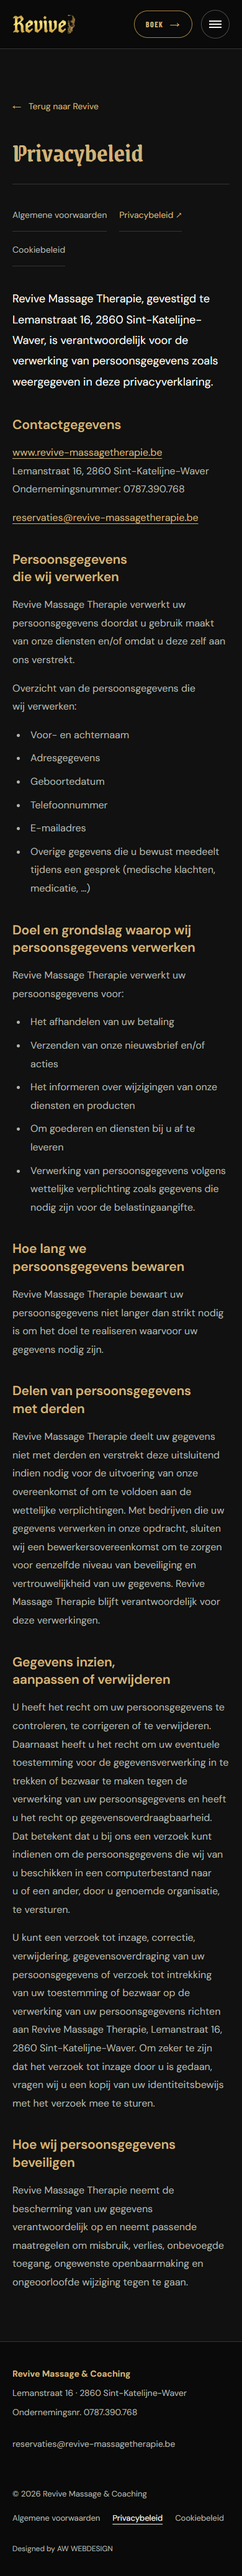
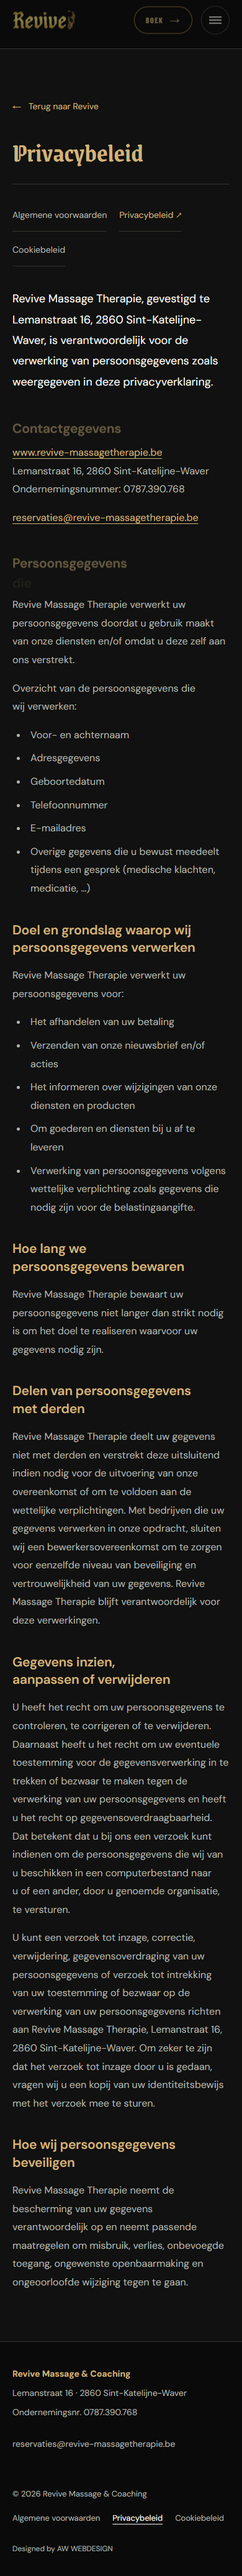
git commit -m "fix: update privacy policy and terms of service"

diff --git a/dist/style.js b/dist/style.js
@@ -85,20 +85,81 @@ document.querySelectorAll('a[href^="#"]').forEach(link => {
   });
 });
 
-// Progressive enhancement: content is readable before observers or animations run.
+// Restore the original curtain, word and staggered scroll reveals. Content stays
+// readable until an animation starts; failed scripts never leave a hidden page.
+const revealAnimations = new Set();
+const syncMotion = () => {
+  document.documentElement.classList.toggle('restored-motion', !motionPreference.matches);
+  if (motionPreference.matches) {
+    revealAnimations.forEach(animation => animation.cancel());
+    revealAnimations.clear();
+  }
+};
+syncMotion();
+motionPreference.addEventListener('change', syncMotion);
+
+function playReveal(element, frames, duration = 700, delay = 0) {
+  if (motionPreference.matches || !element.animate) return;
+  const animation = element.animate(frames, { duration, delay, easing: easeOut, fill: 'backwards' });
+  revealAnimations.add(animation);
+  animation.finished.then(() => revealAnimations.delete(animation), () => revealAnimations.delete(animation));
+}
+
 if ('IntersectionObserver' in window) {
+  const headings = document.querySelectorAll('main section h2, .footer-invitation h2');
+  headings.forEach(heading => {
+    const walker = document.createTreeWalker(heading, NodeFilter.SHOW_TEXT);
+    const nodes = [];
+    while (walker.nextNode()) nodes.push(walker.currentNode);
+    nodes.forEach(node => {
+      const fragment = document.createDocumentFragment();
+      for (const part of node.textContent.match(/\S+|\s+/g) || []) {
+        if (/^\s+$/.test(part)) fragment.append(document.createTextNode(part));
+        else {
+          const word = document.createElement('i');
+          word.className = 'rw';
+          word.textContent = part;
+          fragment.append(word);
+        }
+      }
+      node.replaceWith(fragment);
+    });
+    heading.classList.add('heading-rw');
+  });
+
+  const targets = new Set(headings);
+  document.querySelectorAll('.section-heading > p, .practice-note > *, .about-copy > p, .about-signoff, .about-copy > .btn, .review-overview, .review-viewport, .footer-details > div, .footer-book, .first-visit, .t-card, .about-photo, .footer-wordmark').forEach(element => targets.add(element));
   const observer = new IntersectionObserver(entries => {
-    for (const entry of entries) {
-      if (!entry.isIntersecting) continue;
-      observer.unobserve(entry.target);
-      if (!motionPreference.matches) entry.target.animate(
-        [{ opacity: 0.35, transform: 'translateY(18px)' }, { opacity: 1, transform: 'none' }],
-        { duration: 650, easing: easeOut }
-      );
+    for (const { target, isIntersecting } of entries) {
+      if (!isIntersecting) continue;
+      observer.unobserve(target);
+      target.dataset.revealed = 'true';
+      if (motionPreference.matches) continue;
+      if (target.classList.contains('heading-rw')) {
+        target.querySelectorAll('.rw').forEach((word, index) => playReveal(word,
+          [{ opacity: 0, transform: 'translateY(.5em)' }, { opacity: 1, transform: 'translateY(0)' }], 720, index * 70));
+      } else if (target.matches('.about-photo, .footer-wordmark')) {
+        playReveal(target, [{ clipPath: 'inset(0 0 100% 0)' }, { clipPath: 'inset(0)' }], 950);
+      } else if (target.matches('.t-card')) {
+        const delay = window.matchMedia('(min-width: 761px)').matches ? [...target.parentElement.children].indexOf(target) * 120 : 0;
+        playReveal(target, [{ opacity: 0, transform: 'translateY(28px)' }, { opacity: 1, transform: 'translateY(0)' }], 700, delay);
+        playReveal(target.querySelector('img'),
+          [{ clipPath: 'inset(0 0 100% 0)', transform: 'scale(1.14)' }, { clipPath: 'inset(0)', transform: 'scale(1)' }], 900, delay);
+      } else {
+        playReveal(target, [{ opacity: 0, transform: 'translateY(24px)' }, { opacity: 1, transform: 'translateY(0)' }]);
+      }
     }
   }, { threshold: 0.12 });
-  document.querySelectorAll('.reveal, .practice-note p, .about-copy > p').forEach(element => observer.observe(element));
+  targets.forEach(target => observer.observe(target));
 }
+
+// Reveal focused content immediately rather than animating keyboard navigation.
+document.addEventListener('focusin', event => {
+  revealAnimations.forEach(animation => {
+    const target = animation.effect?.target;
+    if (target && (target.contains(event.target) || event.target.contains(target))) animation.cancel();
+  });
+});
 
 // Reviews slide automatically and remain natively scrollable.
 const reviewViewport = document.querySelector('.review-viewport');

diff --git a/style.js b/style.js
@@ -85,20 +85,81 @@ document.querySelectorAll('a[href^="#"]').forEach(link => {
   });
 });
 
-// Progressive enhancement: content is readable before observers or animations run.
+// Restore the original curtain, word and staggered scroll reveals. Content stays
+// readable until an animation starts; failed scripts never leave a hidden page.
+const revealAnimations = new Set();
+const syncMotion = () => {
+  document.documentElement.classList.toggle('restored-motion', !motionPreference.matches);
+  if (motionPreference.matches) {
+    revealAnimations.forEach(animation => animation.cancel());
+    revealAnimations.clear();
+  }
+};
+syncMotion();
+motionPreference.addEventListener('change', syncMotion);
+
+function playReveal(element, frames, duration = 700, delay = 0) {
+  if (motionPreference.matches || !element.animate) return;
+  const animation = element.animate(frames, { duration, delay, easing: easeOut, fill: 'backwards' });
+  revealAnimations.add(animation);
+  animation.finished.then(() => revealAnimations.delete(animation), () => revealAnimations.delete(animation));
+}
+
 if ('IntersectionObserver' in window) {
+  const headings = document.querySelectorAll('main section h2, .footer-invitation h2');
+  headings.forEach(heading => {
+    const walker = document.createTreeWalker(heading, NodeFilter.SHOW_TEXT);
+    const nodes = [];
+    while (walker.nextNode()) nodes.push(walker.currentNode);
+    nodes.forEach(node => {
+      const fragment = document.createDocumentFragment();
+      for (const part of node.textContent.match(/\S+|\s+/g) || []) {
+        if (/^\s+$/.test(part)) fragment.append(document.createTextNode(part));
+        else {
+          const word = document.createElement('i');
+          word.className = 'rw';
+          word.textContent = part;
+          fragment.append(word);
+        }
+      }
+      node.replaceWith(fragment);
+    });
+    heading.classList.add('heading-rw');
+  });
+
+  const targets = new Set(headings);
+  document.querySelectorAll('.section-heading > p, .practice-note > *, .about-copy > p, .about-signoff, .about-copy > .btn, .review-overview, .review-viewport, .footer-details > div, .footer-book, .first-visit, .t-card, .about-photo, .footer-wordmark').forEach(element => targets.add(element));
   const observer = new IntersectionObserver(entries => {
-    for (const entry of entries) {
-      if (!entry.isIntersecting) continue;
-      observer.unobserve(entry.target);
-      if (!motionPreference.matches) entry.target.animate(
-        [{ opacity: 0.35, transform: 'translateY(18px)' }, { opacity: 1, transform: 'none' }],
-        { duration: 650, easing: easeOut }
-      );
+    for (const { target, isIntersecting } of entries) {
+      if (!isIntersecting) continue;
+      observer.unobserve(target);
+      target.dataset.revealed = 'true';
+      if (motionPreference.matches) continue;
+      if (target.classList.contains('heading-rw')) {
+        target.querySelectorAll('.rw').forEach((word, index) => playReveal(word,
+          [{ opacity: 0, transform: 'translateY(.5em)' }, { opacity: 1, transform: 'translateY(0)' }], 720, index * 70));
+      } else if (target.matches('.about-photo, .footer-wordmark')) {
+        playReveal(target, [{ clipPath: 'inset(0 0 100% 0)' }, { clipPath: 'inset(0)' }], 950);
+      } else if (target.matches('.t-card')) {
+        const delay = window.matchMedia('(min-width: 761px)').matches ? [...target.parentElement.children].indexOf(target) * 120 : 0;
+        playReveal(target, [{ opacity: 0, transform: 'translateY(28px)' }, { opacity: 1, transform: 'translateY(0)' }], 700, delay);
+        playReveal(target.querySelector('img'),
+          [{ clipPath: 'inset(0 0 100% 0)', transform: 'scale(1.14)' }, { clipPath: 'inset(0)', transform: 'scale(1)' }], 900, delay);
+      } else {
+        playReveal(target, [{ opacity: 0, transform: 'translateY(24px)' }, { opacity: 1, transform: 'translateY(0)' }]);
+      }
     }
   }, { threshold: 0.12 });
-  document.querySelectorAll('.reveal, .practice-note p, .about-copy > p').forEach(element => observer.observe(element));
+  targets.forEach(target => observer.observe(target));
 }
+
+// Reveal focused content immediately rather than animating keyboard navigation.
+document.addEventListener('focusin', event => {
+  revealAnimations.forEach(animation => {
+    const target = animation.effect?.target;
+    if (target && (target.contains(event.target) || event.target.contains(target))) animation.cancel();
+  });
+});
 
 // Reviews slide automatically and remain natively scrollable.
 const reviewViewport = document.querySelector('.review-viewport');

diff --git a/404.html b/404.html
@@ -9,7 +9,7 @@
 <meta property="og:title" content="Pagina niet gevonden · Revive"><meta property="og:description" content="Deze pagina bestaat niet. Ga terug naar Revive of boek je afspraak."><meta property="og:url" content="https://www.revive-massagetherapie.be/404.html">
 <meta property="og:image" content="https://www.revive-massagetherapie.be/assets/social-preview.jpg"><meta property="og:image:alt" content="Revive Massage &amp; Coaching"><meta name="twitter:card" content="summary_large_image">
 <link rel="icon" href="/REVIVE/assets/favicon.svg" type="image/svg+xml"><link rel="apple-touch-icon" href="/REVIVE/assets/apple-touch-icon.png">
-<link rel="stylesheet" href="/REVIVE/assets/fonts/fonts.css"><link rel="stylesheet" href="/REVIVE/style.css?v=14"><link rel="stylesheet" href="/REVIVE/launch.css?v=1">
+<link rel="stylesheet" href="/REVIVE/assets/fonts/fonts.css"><link rel="stylesheet" href="/REVIVE/style.css?v=15"><link rel="stylesheet" href="/REVIVE/launch.css?v=7">
 </head><body class="legal-page"><a class="skip" href="#main">Naar inhoud</a>
 <header class="rv-nav" id="rv-nav"><div class="rv-nav-inner shell">
   <a class="rv-brand" href="/REVIVE/" aria-label="Revive · naar de homepage"><img src="/REVIVE/assets/header-mark.webp" alt="Revive Massage & Coaching" width="903" height="269"></a>
@@ -31,4 +31,4 @@
 <main id="main" class="legal-main shell" tabindex="-1"><div class="legal-heading"><a class="legal-back" href="/REVIVE/">← Terug naar Revive</a><h1>Even de weg kwijt?</h1></div><div class="error-copy"><p>Deze pagina bestaat niet of is verplaatst. Via de homepage vind je onze behandelingen, contactgegevens en de link om een afspraak te boeken.</p><a class="btn" href="/REVIVE/">Naar de homepage <span aria-hidden="true">→</span></a></div></main><footer class="legal-footer">
 <div class="shell legal-contact"><div><p><strong>Revive Massage &amp; Coaching</strong></p><p>Lemanstraat 16 · 2860 Sint-Katelijne-Waver</p><p>Ondernemingsnr. 0787.390.768</p></div><p><a href="mailto:reservaties@revive-massagetherapie.be">reservaties@revive-massagetherapie.be</a></p></div>
 <div class="footer-legal"><div class="shell"><span>© <span data-year>2026</span> Revive Massage &amp; Coaching</span><nav class="legal-links" aria-label="Juridische informatie"><a href="/REVIVE/algemene-voorwaarden/">Algemene voorwaarden</a><a href="/REVIVE/privacybeleid/">Privacybeleid</a><a href="/REVIVE/cookiebeleid/">Cookiebeleid</a></nav><a class="design-credit" href="https://awwebdesign.be/" target="_blank" rel="noopener noreferrer">Designed by AW WEBDESIGN</a></div></div></footer>
-<script src="/REVIVE/assets/vendor/lenis.min.js" defer></script><script src="/REVIVE/style.js?v=13" defer></script></body></html>
+<script src="/REVIVE/assets/vendor/lenis.min.js" defer></script><script src="/REVIVE/style.js?v=14" defer></script></body></html>

diff --git a/dist/404.html b/dist/404.html
@@ -9,7 +9,7 @@
 <meta property="og:title" content="Pagina niet gevonden · Revive"><meta property="og:description" content="Deze pagina bestaat niet. Ga terug naar Revive of boek je afspraak."><meta property="og:url" content="https://www.revive-massagetherapie.be/404.html">
 <meta property="og:image" content="https://www.revive-massagetherapie.be/assets/social-preview.jpg"><meta property="og:image:alt" content="Revive Massage &amp; Coaching"><meta name="twitter:card" content="summary_large_image">
 <link rel="icon" href="/REVIVE/assets/favicon.svg" type="image/svg+xml"><link rel="apple-touch-icon" href="/REVIVE/assets/apple-touch-icon.png">
-<link rel="stylesheet" href="/REVIVE/assets/fonts/fonts.css"><link rel="stylesheet" href="/REVIVE/style.css?v=14"><link rel="stylesheet" href="/REVIVE/launch.css?v=1">
+<link rel="stylesheet" href="/REVIVE/assets/fonts/fonts.css"><link rel="stylesheet" href="/REVIVE/style.css?v=15"><link rel="stylesheet" href="/REVIVE/launch.css?v=7">
 </head><body class="legal-page"><a class="skip" href="#main">Naar inhoud</a>
 <header class="rv-nav" id="rv-nav"><div class="rv-nav-inner shell">
   <a class="rv-brand" href="/REVIVE/" aria-label="Revive · naar de homepage"><img src="/REVIVE/assets/header-mark.webp" alt="Revive Massage & Coaching" width="903" height="269"></a>
@@ -31,4 +31,4 @@
 <main id="main" class="legal-main shell" tabindex="-1"><div class="legal-heading"><a class="legal-back" href="/REVIVE/">← Terug naar Revive</a><h1>Even de weg kwijt?</h1></div><div class="error-copy"><p>Deze pagina bestaat niet of is verplaatst. Via de homepage vind je onze behandelingen, contactgegevens en de link om een afspraak te boeken.</p><a class="btn" href="/REVIVE/">Naar de homepage <span aria-hidden="true">→</span></a></div></main><footer class="legal-footer">
 <div class="shell legal-contact"><div><p><strong>Revive Massage &amp; Coaching</strong></p><p>Lemanstraat 16 · 2860 Sint-Katelijne-Waver</p><p>Ondernemingsnr. 0787.390.768</p></div><p><a href="mailto:reservaties@revive-massagetherapie.be">reservaties@revive-massagetherapie.be</a></p></div>
 <div class="footer-legal"><div class="shell"><span>© <span data-year>2026</span> Revive Massage &amp; Coaching</span><nav class="legal-links" aria-label="Juridische informatie"><a href="/REVIVE/algemene-voorwaarden/">Algemene voorwaarden</a><a href="/REVIVE/privacybeleid/">Privacybeleid</a><a href="/REVIVE/cookiebeleid/">Cookiebeleid</a></nav><a class="design-credit" href="https://awwebdesign.be/" target="_blank" rel="noopener noreferrer">Designed by AW WEBDESIGN</a></div></div></footer>
-<script src="/REVIVE/assets/vendor/lenis.min.js" defer></script><script src="/REVIVE/style.js?v=13" defer></script></body></html>
+<script src="/REVIVE/assets/vendor/lenis.min.js" defer></script><script src="/REVIVE/style.js?v=14" defer></script></body></html>

diff --git a/algemene-voorwaarden/index.html b/algemene-voorwaarden/index.html
@@ -9,7 +9,7 @@
 <meta property="og:title" content="Algemene voorwaarden · Revive"><meta property="og:description" content="De algemene voorwaarden voor afspraken, behandelingen en betalingen bij Revive Massage Therapie."><meta property="og:url" content="https://www.revive-massagetherapie.be/algemene-voorwaarden/">
 <meta property="og:image" content="https://www.revive-massagetherapie.be/assets/social-preview.jpg"><meta property="og:image:alt" content="Revive Massage &amp; Coaching"><meta name="twitter:card" content="summary_large_image">
 <link rel="icon" href="../assets/favicon.svg" type="image/svg+xml"><link rel="apple-touch-icon" href="../assets/apple-touch-icon.png">
-<link rel="stylesheet" href="../assets/fonts/fonts.css"><link rel="stylesheet" href="../style.css?v=14"><link rel="stylesheet" href="../launch.css?v=1">
+<link rel="stylesheet" href="../assets/fonts/fonts.css"><link rel="stylesheet" href="../style.css?v=15"><link rel="stylesheet" href="../launch.css?v=7">
 </head><body class="legal-page"><a class="skip" href="#main">Naar inhoud</a>
 <header class="rv-nav" id="rv-nav"><div class="rv-nav-inner shell">
   <a class="rv-brand" href="../" aria-label="Revive · naar de homepage"><img src="../assets/header-mark.webp" alt="Revive Massage & Coaching" width="903" height="269"></a>
@@ -51,4 +51,4 @@
 </article></div></main><footer class="legal-footer">
 <div class="shell legal-contact"><div><p><strong>Revive Massage &amp; Coaching</strong></p><p>Lemanstraat 16 · 2860 Sint-Katelijne-Waver</p><p>Ondernemingsnr. 0787.390.768</p></div><p><a href="mailto:reservaties@revive-massagetherapie.be">reservaties@revive-massagetherapie.be</a></p></div>
 <div class="footer-legal"><div class="shell"><span>© <span data-year>2026</span> Revive Massage &amp; Coaching</span><nav class="legal-links" aria-label="Juridische informatie"><a href="../algemene-voorwaarden/" aria-current="page">Algemene voorwaarden</a><a href="../privacybeleid/">Privacybeleid</a><a href="../cookiebeleid/">Cookiebeleid</a></nav><a class="design-credit" href="https://awwebdesign.be/" target="_blank" rel="noopener noreferrer">Designed by AW WEBDESIGN</a></div></div></footer>
-<script src="../assets/vendor/lenis.min.js" defer></script><script src="../style.js?v=13" defer></script></body></html>
+<script src="../assets/vendor/lenis.min.js" defer></script><script src="../style.js?v=14" defer></script></body></html>

diff --git a/dist/algemene-voorwaarden/index.html b/dist/algemene-voorwaarden/index.html
@@ -9,7 +9,7 @@
 <meta property="og:title" content="Algemene voorwaarden · Revive"><meta property="og:description" content="De algemene voorwaarden voor afspraken, behandelingen en betalingen bij Revive Massage Therapie."><meta property="og:url" content="https://www.revive-massagetherapie.be/algemene-voorwaarden/">
 <meta property="og:image" content="https://www.revive-massagetherapie.be/assets/social-preview.jpg"><meta property="og:image:alt" content="Revive Massage &amp; Coaching"><meta name="twitter:card" content="summary_large_image">
 <link rel="icon" href="../assets/favicon.svg" type="image/svg+xml"><link rel="apple-touch-icon" href="../assets/apple-touch-icon.png">
-<link rel="stylesheet" href="../assets/fonts/fonts.css"><link rel="stylesheet" href="../style.css?v=14"><link rel="stylesheet" href="../launch.css?v=1">
+<link rel="stylesheet" href="../assets/fonts/fonts.css"><link rel="stylesheet" href="../style.css?v=15"><link rel="stylesheet" href="../launch.css?v=7">
 </head><body class="legal-page"><a class="skip" href="#main">Naar inhoud</a>
 <header class="rv-nav" id="rv-nav"><div class="rv-nav-inner shell">
   <a class="rv-brand" href="../" aria-label="Revive · naar de homepage"><img src="../assets/header-mark.webp" alt="Revive Massage & Coaching" width="903" height="269"></a>
@@ -51,4 +51,4 @@
 </article></div></main><footer class="legal-footer">
 <div class="shell legal-contact"><div><p><strong>Revive Massage &amp; Coaching</strong></p><p>Lemanstraat 16 · 2860 Sint-Katelijne-Waver</p><p>Ondernemingsnr. 0787.390.768</p></div><p><a href="mailto:reservaties@revive-massagetherapie.be">reservaties@revive-massagetherapie.be</a></p></div>
 <div class="footer-legal"><div class="shell"><span>© <span data-year>2026</span> Revive Massage &amp; Coaching</span><nav class="legal-links" aria-label="Juridische informatie"><a href="../algemene-voorwaarden/" aria-current="page">Algemene voorwaarden</a><a href="../privacybeleid/">Privacybeleid</a><a href="../cookiebeleid/">Cookiebeleid</a></nav><a class="design-credit" href="https://awwebdesign.be/" target="_blank" rel="noopener noreferrer">Designed by AW WEBDESIGN</a></div></div></footer>
-<script src="../assets/vendor/lenis.min.js" defer></script><script src="../style.js?v=13" defer></script></body></html>
+<script src="../assets/vendor/lenis.min.js" defer></script><script src="../style.js?v=14" defer></script></body></html>

diff --git a/dist/privacybeleid/index.html b/dist/privacybeleid/index.html
@@ -9,7 +9,7 @@
 <meta property="og:title" content="Privacybeleid · Revive"><meta property="og:description" content="Lees hoe Revive Massage Therapie omgaat met je persoonsgegevens en hoe je je privacyrechten kan uitoefenen."><meta property="og:url" content="https://www.revive-massagetherapie.be/privacybeleid/">
 <meta property="og:image" content="https://www.revive-massagetherapie.be/assets/social-preview.jpg"><meta property="og:image:alt" content="Revive Massage &amp; Coaching"><meta name="twitter:card" content="summary_large_image">
 <link rel="icon" href="../assets/favicon.svg" type="image/svg+xml"><link rel="apple-touch-icon" href="../assets/apple-touch-icon.png">
-<link rel="stylesheet" href="../assets/fonts/fonts.css"><link rel="stylesheet" href="../style.css?v=14"><link rel="stylesheet" href="../launch.css?v=1">
+<link rel="stylesheet" href="../assets/fonts/fonts.css"><link rel="stylesheet" href="../style.css?v=15"><link rel="stylesheet" href="../launch.css?v=7">
 </head><body class="legal-page"><a class="skip" href="#main">Naar inhoud</a>
 <header class="rv-nav" id="rv-nav"><div class="rv-nav-inner shell">
   <a class="rv-brand" href="../" aria-label="Revive · naar de homepage"><img src="../assets/header-mark.webp" alt="Revive Massage & Coaching" width="903" height="269"></a>
@@ -51,4 +51,4 @@
 </article></div></main><footer class="legal-footer">
 <div class="shell legal-contact"><div><p><strong>Revive Massage &amp; Coaching</strong></p><p>Lemanstraat 16 · 2860 Sint-Katelijne-Waver</p><p>Ondernemingsnr. 0787.390.768</p></div><p><a href="mailto:reservaties@revive-massagetherapie.be">reservaties@revive-massagetherapie.be</a></p></div>
 <div class="footer-legal"><div class="shell"><span>© <span data-year>2026</span> Revive Massage &amp; Coaching</span><nav class="legal-links" aria-label="Juridische informatie"><a href="../algemene-voorwaarden/">Algemene voorwaarden</a><a href="../privacybeleid/" aria-current="page">Privacybeleid</a><a href="../cookiebeleid/">Cookiebeleid</a></nav><a class="design-credit" href="https://awwebdesign.be/" target="_blank" rel="noopener noreferrer">Designed by AW WEBDESIGN</a></div></div></footer>
-<script src="../assets/vendor/lenis.min.js" defer></script><script src="../style.js?v=13" defer></script></body></html>
+<script src="../assets/vendor/lenis.min.js" defer></script><script src="../style.js?v=14" defer></script></body></html>

diff --git a/privacybeleid/index.html b/privacybeleid/index.html
@@ -9,7 +9,7 @@
 <meta property="og:title" content="Privacybeleid · Revive"><meta property="og:description" content="Lees hoe Revive Massage Therapie omgaat met je persoonsgegevens en hoe je je privacyrechten kan uitoefenen."><meta property="og:url" content="https://www.revive-massagetherapie.be/privacybeleid/">
 <meta property="og:image" content="https://www.revive-massagetherapie.be/assets/social-preview.jpg"><meta property="og:image:alt" content="Revive Massage &amp; Coaching"><meta name="twitter:card" content="summary_large_image">
 <link rel="icon" href="../assets/favicon.svg" type="image/svg+xml"><link rel="apple-touch-icon" href="../assets/apple-touch-icon.png">
-<link rel="stylesheet" href="../assets/fonts/fonts.css"><link rel="stylesheet" href="../style.css?v=14"><link rel="stylesheet" href="../launch.css?v=1">
+<link rel="stylesheet" href="../assets/fonts/fonts.css"><link rel="stylesheet" href="../style.css?v=15"><link rel="stylesheet" href="../launch.css?v=7">
 </head><body class="legal-page"><a class="skip" href="#main">Naar inhoud</a>
 <header class="rv-nav" id="rv-nav"><div class="rv-nav-inner shell">
   <a class="rv-brand" href="../" aria-label="Revive · naar de homepage"><img src="../assets/header-mark.webp" alt="Revive Massage & Coaching" width="903" height="269"></a>
@@ -51,4 +51,4 @@
 </article></div></main><footer class="legal-footer">
 <div class="shell legal-contact"><div><p><strong>Revive Massage &amp; Coaching</strong></p><p>Lemanstraat 16 · 2860 Sint-Katelijne-Waver</p><p>Ondernemingsnr. 0787.390.768</p></div><p><a href="mailto:reservaties@revive-massagetherapie.be">reservaties@revive-massagetherapie.be</a></p></div>
 <div class="footer-legal"><div class="shell"><span>© <span data-year>2026</span> Revive Massage &amp; Coaching</span><nav class="legal-links" aria-label="Juridische informatie"><a href="../algemene-voorwaarden/">Algemene voorwaarden</a><a href="../privacybeleid/" aria-current="page">Privacybeleid</a><a href="../cookiebeleid/">Cookiebeleid</a></nav><a class="design-credit" href="https://awwebdesign.be/" target="_blank" rel="noopener noreferrer">Designed by AW WEBDESIGN</a></div></div></footer>
-<script src="../assets/vendor/lenis.min.js" defer></script><script src="../style.js?v=13" defer></script></body></html>
+<script src="../assets/vendor/lenis.min.js" defer></script><script src="../style.js?v=14" defer></script></body></html>

diff --git a/cookiebeleid/index.html b/cookiebeleid/index.html
@@ -9,7 +9,7 @@
 <meta property="og:title" content="Cookiebeleid · Revive"><meta property="og:description" content="Informatie over cookies, externe links en privacy op de website van Revive Massage & Coaching."><meta property="og:url" content="https://www.revive-massagetherapie.be/cookiebeleid/">
 <meta property="og:image" content="https://www.revive-massagetherapie.be/assets/social-preview.jpg"><meta property="og:image:alt" content="Revive Massage &amp; Coaching"><meta name="twitter:card" content="summary_large_image">
 <link rel="icon" href="../assets/favicon.svg" type="image/svg+xml"><link rel="apple-touch-icon" href="../assets/apple-touch-icon.png">
-<link rel="stylesheet" href="../assets/fonts/fonts.css"><link rel="stylesheet" href="../style.css?v=14"><link rel="stylesheet" href="../launch.css?v=1">
+<link rel="stylesheet" href="../assets/fonts/fonts.css"><link rel="stylesheet" href="../style.css?v=15"><link rel="stylesheet" href="../launch.css?v=7">
 </head><body class="legal-page"><a class="skip" href="#main">Naar inhoud</a>
 <header class="rv-nav" id="rv-nav"><div class="rv-nav-inner shell">
   <a class="rv-brand" href="../" aria-label="Revive · naar de homepage"><img src="../assets/header-mark.webp" alt="Revive Massage & Coaching" width="903" height="269"></a>
@@ -48,4 +48,4 @@
 </article></div></main><footer class="legal-footer">
 <div class="shell legal-contact"><div><p><strong>Revive Massage &amp; Coaching</strong></p><p>Lemanstraat 16 · 2860 Sint-Katelijne-Waver</p><p>Ondernemingsnr. 0787.390.768</p></div><p><a href="mailto:reservaties@revive-massagetherapie.be">reservaties@revive-massagetherapie.be</a></p></div>
 <div class="footer-legal"><div class="shell"><span>© <span data-year>2026</span> Revive Massage &amp; Coaching</span><nav class="legal-links" aria-label="Juridische informatie"><a href="../algemene-voorwaarden/">Algemene voorwaarden</a><a href="../privacybeleid/">Privacybeleid</a><a href="../cookiebeleid/" aria-current="page">Cookiebeleid</a></nav><a class="design-credit" href="https://awwebdesign.be/" target="_blank" rel="noopener noreferrer">Designed by AW WEBDESIGN</a></div></div></footer>
-<script src="../assets/vendor/lenis.min.js" defer></script><script src="../style.js?v=13" defer></script></body></html>
+<script src="../assets/vendor/lenis.min.js" defer></script><script src="../style.js?v=14" defer></script></body></html>

diff --git a/dist/cookiebeleid/index.html b/dist/cookiebeleid/index.html
@@ -9,7 +9,7 @@
 <meta property="og:title" content="Cookiebeleid · Revive"><meta property="og:description" content="Informatie over cookies, externe links en privacy op de website van Revive Massage & Coaching."><meta property="og:url" content="https://www.revive-massagetherapie.be/cookiebeleid/">
 <meta property="og:image" content="https://www.revive-massagetherapie.be/assets/social-preview.jpg"><meta property="og:image:alt" content="Revive Massage &amp; Coaching"><meta name="twitter:card" content="summary_large_image">
 <link rel="icon" href="../assets/favicon.svg" type="image/svg+xml"><link rel="apple-touch-icon" href="../assets/apple-touch-icon.png">
-<link rel="stylesheet" href="../assets/fonts/fonts.css"><link rel="stylesheet" href="../style.css?v=14"><link rel="stylesheet" href="../launch.css?v=1">
+<link rel="stylesheet" href="../assets/fonts/fonts.css"><link rel="stylesheet" href="../style.css?v=15"><link rel="stylesheet" href="../launch.css?v=7">
 </head><body class="legal-page"><a class="skip" href="#main">Naar inhoud</a>
 <header class="rv-nav" id="rv-nav"><div class="rv-nav-inner shell">
   <a class="rv-brand" href="../" aria-label="Revive · naar de homepage"><img src="../assets/header-mark.webp" alt="Revive Massage & Coaching" width="903" height="269"></a>
@@ -48,4 +48,4 @@
 </article></div></main><footer class="legal-footer">
 <div class="shell legal-contact"><div><p><strong>Revive Massage &amp; Coaching</strong></p><p>Lemanstraat 16 · 2860 Sint-Katelijne-Waver</p><p>Ondernemingsnr. 0787.390.768</p></div><p><a href="mailto:reservaties@revive-massagetherapie.be">reservaties@revive-massagetherapie.be</a></p></div>
 <div class="footer-legal"><div class="shell"><span>© <span data-year>2026</span> Revive Massage &amp; Coaching</span><nav class="legal-links" aria-label="Juridische informatie"><a href="../algemene-voorwaarden/">Algemene voorwaarden</a><a href="../privacybeleid/">Privacybeleid</a><a href="../cookiebeleid/" aria-current="page">Cookiebeleid</a></nav><a class="design-credit" href="https://awwebdesign.be/" target="_blank" rel="noopener noreferrer">Designed by AW WEBDESIGN</a></div></div></footer>
-<script src="../assets/vendor/lenis.min.js" defer></script><script src="../style.js?v=13" defer></script></body></html>
+<script src="../assets/vendor/lenis.min.js" defer></script><script src="../style.js?v=14" defer></script></body></html>

diff --git a/dist/index.html b/dist/index.html
@@ -8,8 +8,8 @@
   <link rel="icon" href="./assets/favicon.svg" type="image/svg+xml">
   <link rel="apple-touch-icon" href="./assets/apple-touch-icon.png">
   <link rel="stylesheet" href="./assets/fonts/fonts.css">
-  <link rel="stylesheet" href="./style.css">
-  <link rel="stylesheet" href="./launch.css?v=6">
+  <link rel="stylesheet" href="./style.css?v=15">
+  <link rel="stylesheet" href="./launch.css?v=7">
   <link rel="canonical" href="https://www.revive-massagetherapie.be/">
   <meta name="referrer" content="strict-origin-when-cross-origin">
   <meta property="og:type" content="website">
@@ -94,5 +94,5 @@
 <div class="footer-legal"><div class="shell"><span>© <span data-year>2026</span> Revive Massage &amp; Coaching</span><nav class="legal-links" aria-label="Juridische informatie"><a href="./algemene-voorwaarden/">Algemene voorwaarden</a><a href="./privacybeleid/">Privacybeleid</a><a href="./cookiebeleid/">Cookiebeleid</a></nav><a class="design-credit" href="https://awwebdesign.be/" target="_blank" rel="noopener noreferrer">Designed by AW WEBDESIGN</a></div></div>
 </footer>
 <script src="./assets/vendor/lenis.min.js" defer></script>
-<script src="./style.js" defer></script>
+<script src="./style.js?v=14" defer></script>
 </body></html>

diff --git a/index.html b/index.html
@@ -8,8 +8,8 @@
   <link rel="icon" href="./assets/favicon.svg" type="image/svg+xml">
   <link rel="apple-touch-icon" href="./assets/apple-touch-icon.png">
   <link rel="stylesheet" href="./assets/fonts/fonts.css">
-  <link rel="stylesheet" href="./style.css">
-  <link rel="stylesheet" href="./launch.css?v=6">
+  <link rel="stylesheet" href="./style.css?v=15">
+  <link rel="stylesheet" href="./launch.css?v=7">
   <link rel="canonical" href="https://www.revive-massagetherapie.be/">
   <meta name="referrer" content="strict-origin-when-cross-origin">
   <meta property="og:type" content="website">
@@ -94,5 +94,5 @@
 <div class="footer-legal"><div class="shell"><span>© <span data-year>2026</span> Revive Massage &amp; Coaching</span><nav class="legal-links" aria-label="Juridische informatie"><a href="./algemene-voorwaarden/">Algemene voorwaarden</a><a href="./privacybeleid/">Privacybeleid</a><a href="./cookiebeleid/">Cookiebeleid</a></nav><a class="design-credit" href="https://awwebdesign.be/" target="_blank" rel="noopener noreferrer">Designed by AW WEBDESIGN</a></div></div>
 </footer>
 <script src="./assets/vendor/lenis.min.js" defer></script>
-<script src="./style.js" defer></script>
+<script src="./style.js?v=14" defer></script>
 </body></html>
